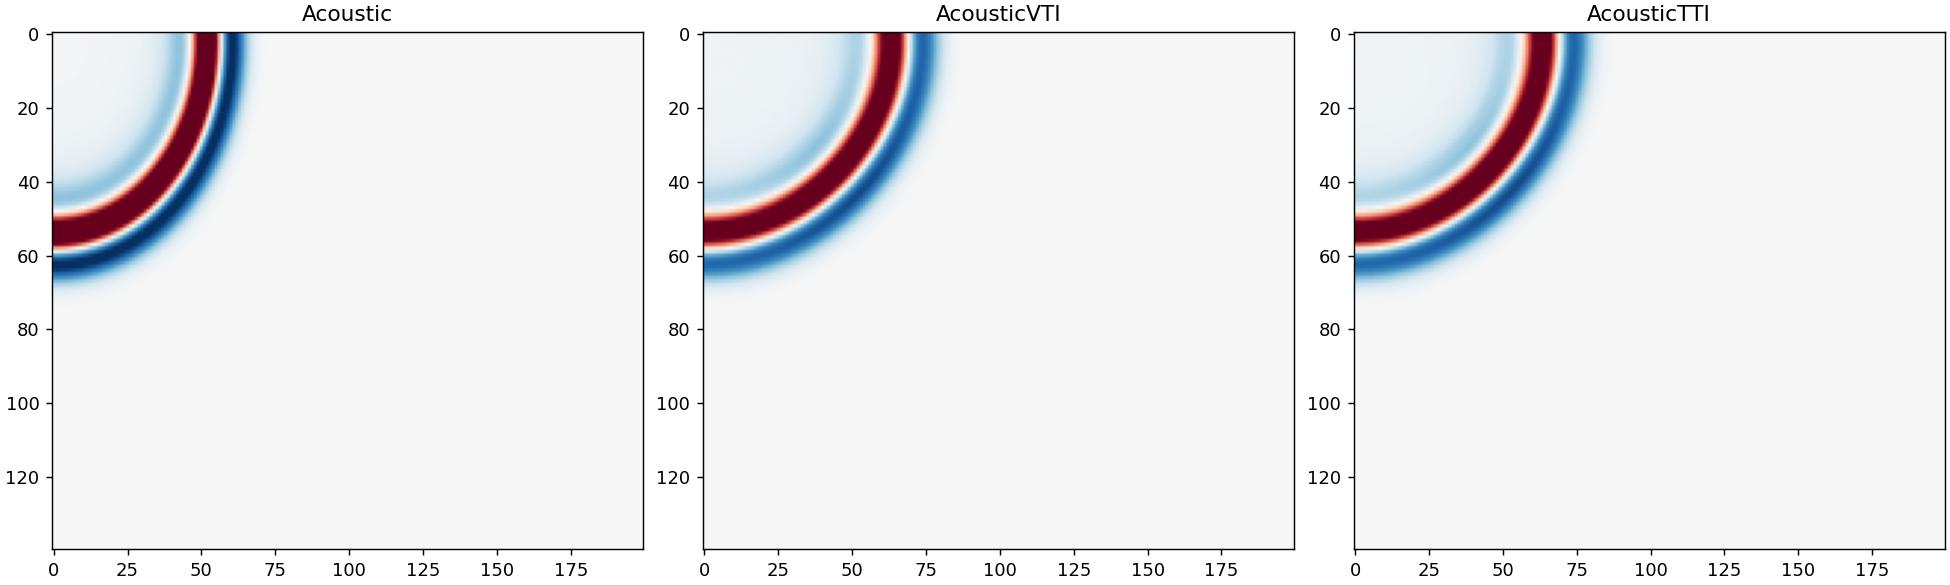
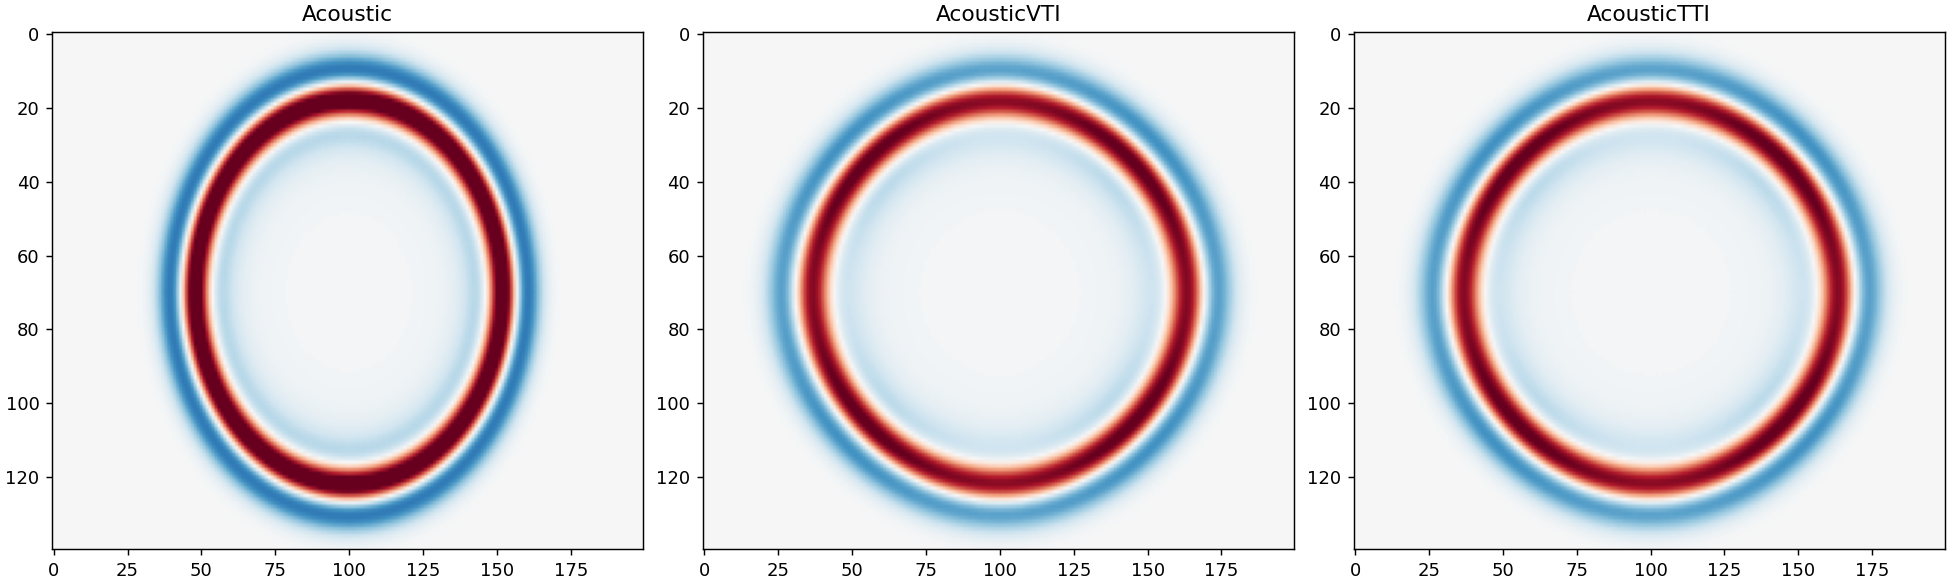
feat: centre source by default in compare_equation_wavefields
Anisotropic wavefronts only reveal their shape (VTI elliptical, TTI
tilted) when the source sits at the model centre and the wave can
propagate in all directions. Surface acquisition clips the wavefront to
a corner arc — useless for the comparison figure this tool exists to
produce.

source_at_center=True overrides source_step/source_depth with an
explicit one-shot geometry at (nx/2, nz/2) for 2-D and (nx/2, ny/2,
nz/2) for 3-D. Caller can set it False to fall back to the surface
geometry. System prompt now mentions the centring so the LLM doesn't
try to override.

Refresh the bundled anisotropy_comparison.png from a fresh demo run.

diff --git a/src/sweepx/agent/tools/orchestrate.py b/src/sweepx/agent/tools/orchestrate.py
@@ -45,6 +45,17 @@ class CompareEquationWavefieldsParams(BaseModel):
     free_surface: bool = Field(False)
     device: str = Field("cpu")
     output_dir: str = Field("./sweep_runs")
+    source_at_center: bool = Field(
+        True,
+        description=(
+            "Place a SINGLE source at the model centre — the canonical view for "
+            "wavefront-shape comparison (Duveneck Fig.1/2 style: full circular wavefront "
+            "for isotropic, elliptical for VTI, tilted for TTI). When True (default) this "
+            "overrides source_step/source_depth and uses an explicit one-shot geometry. "
+            "Set False only if you specifically want surface acquisition (poor view of "
+            "anisotropy)."
+        ),
+    )
 
 
 @register(
@@ -69,6 +80,35 @@ def compare_equation_wavefields(args: CompareEquationWavefieldsParams) -> dict[s
 
     pool = {"vp": args.vp_path, **(args.extra_models or {})}
     snap_t = args.nt - 1
+
+    # Build the centred-source geometry override ONCE (same for every equation).
+    # ExplicitGeometry uses (x, z) for 2-D and (x, y, z) for 3-D — same convention
+    # as build_forward._resolve_geometry. A single source at the model centre with
+    # a sparse top-row receiver line keeps the figure focused on wavefront SHAPE.
+    extra_override: dict[str, Any] | None = None
+    if args.source_at_center:
+        import numpy as _np
+        try:
+            vp_shape = tuple(_np.load(args.vp_path, mmap_mode="r").shape)
+        except Exception as exc:
+            return {"error": f"could not read shape of vp_path '{args.vp_path}': {exc}"}
+        rstep = max(args.receiver_step, 1)
+        if len(vp_shape) == 2:
+            nz, nx = vp_shape
+            src = [nx // 2, nz // 2]
+            recs = [[x, max(args.receiver_depth, 0)] for x in range(0, nx, rstep)] or [[nx // 2, 0]]
+        elif len(vp_shape) == 3:
+            nz, ny, nx = vp_shape
+            src = [nx // 2, ny // 2, nz // 2]
+            recs = [
+                [x, y, max(args.receiver_depth, 0)]
+                for y in range(0, ny, rstep)
+                for x in range(0, nx, rstep)
+            ] or [[nx // 2, ny // 2, 0]]
+        else:
+            return {"error": f"unsupported model ndim={len(vp_shape)}; expected 2-D or 3-D."}
+        extra_override = {"geometry": {"kind": "explicit", "sources": [src], "receivers": recs}}
+
     task_dirs: list[str] = []
     for eq in args.equations:
         required = eqs_models.get(eq)
@@ -78,7 +118,7 @@ def compare_equation_wavefields(args: CompareEquationWavefieldsParams) -> dict[s
         if missing:
             return {"error": f"equation '{eq}' needs models {required}; missing {missing} — add them to extra_models."}
         em = {m: pool[m] for m in required if m != "vp"}
-        b = registry.get("build_wavefield_spec").invoke({
+        build_args: dict[str, Any] = {
             "vp_path": args.vp_path, "equation": eq, "extra_models": em or None,
             "dh": args.dh, "dt": args.dt, "nt": args.nt, "fm": args.fm,
             "snapshot_times": [snap_t], "abcn": args.abcn, "spatial_order": args.spatial_order,
@@ -87,7 +127,10 @@ def compare_equation_wavefields(args: CompareEquationWavefieldsParams) -> dict[s
             "free_surface": args.free_surface, "device": args.device,
             "backend_impl": "eager", "use_compile": False,
             "output_dir": args.output_dir, "task_id": f"cmpeq_{eq}",
-        })
+        }
+        if extra_override is not None:
+            build_args["extra"] = extra_override
+        b = registry.get("build_wavefield_spec").invoke(build_args)
         if not b.ok or "error" in b.value:
             return {"error": f"build {eq}: {b.value.get('error') if b.ok else b.error}"}
         r = registry.get("run_task").invoke({"yaml_path": b.value["yaml_path"], "timeout_s": 400})

diff --git a/src/sweepx/agent/prompts.py b/src/sweepx/agent/prompts.py
@@ -32,6 +32,8 @@ for you. Map what they want to a workflow:
   多个方程波前对比)  → call compare_equation_wavefields(vp_path, equations=[...],
   extra_models={shared pool}) ONCE — it runs each equation and draws the
   comparison figure for you. Do NOT run them separately and juggle task_dirs.
+  It auto-places the source at the MODEL CENTRE (the only view that shows
+  anisotropic wavefront shape — surface acquisition just clips to a corner arc).
 Disambiguation: if the user wants to SEE the wave / a movie / snapshots, it is a
 WAVEFIELD task — never a forward task. After a wavefield run, producing the figure
 or animation is part of the job, not an optional extra.
